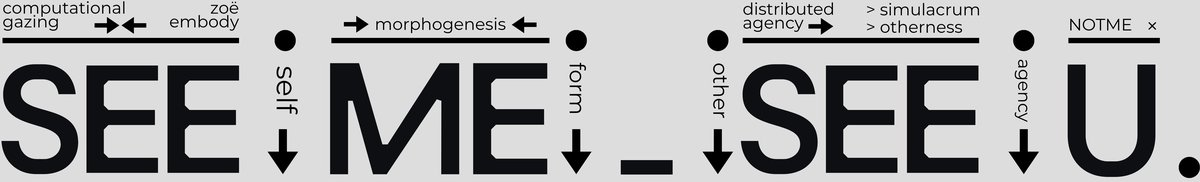
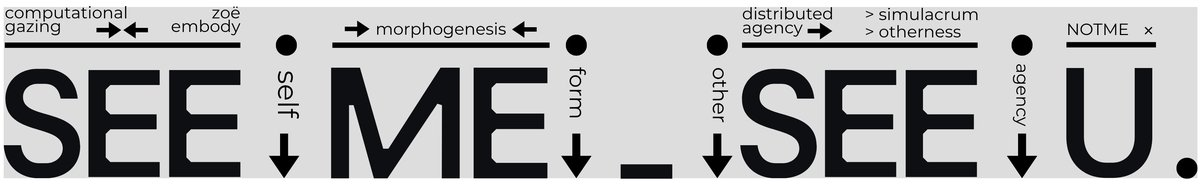
Replace poster hover with final artwork (1200x186, 40KB)

diff --git a/docs/work-previews.md b/docs/work-previews.md
@@ -22,7 +22,7 @@ update. Basenames must remain unique.
 
 - `wittgenstein-pitch.jpg`: pitch PDF page 1
 - `jiko-pitch.jpg`: pitch PDF page 1
-- `see-me-see-u-poster.jpg`: poster PDF page 1
+- `see-me-see-u-poster.jpg`: SEE-ME SEE-U title artwork
 - `matter-pitch.jpg`: high-quality web export of Matter's official
   [`slate-bone-master-1024.png`](https://github.com/p-to-q/matter/blob/main/features/matter/brand/assets/slate-bone-master-1024.png)
 - `murmur-pitch.jpg`: supplied Murmur title artwork
